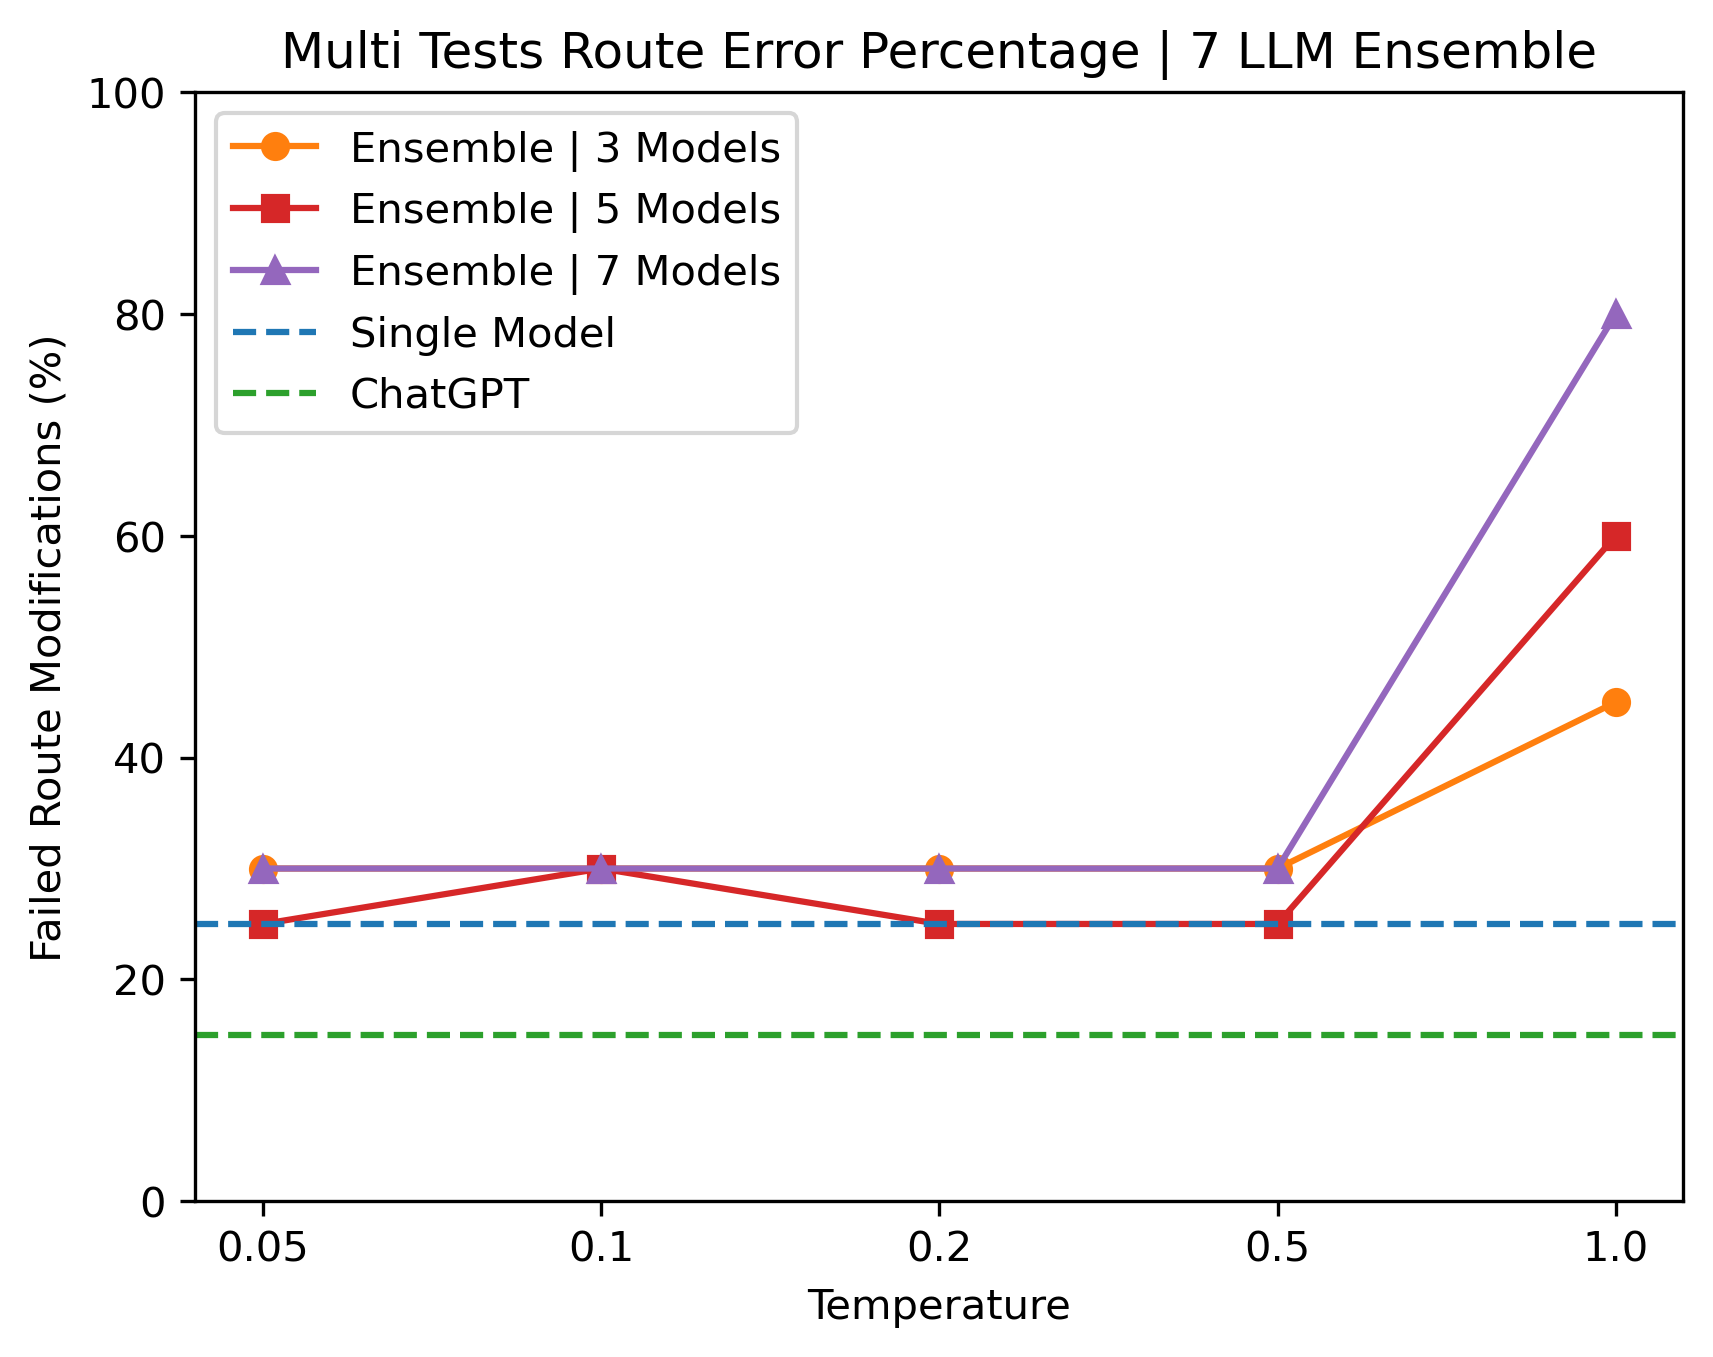
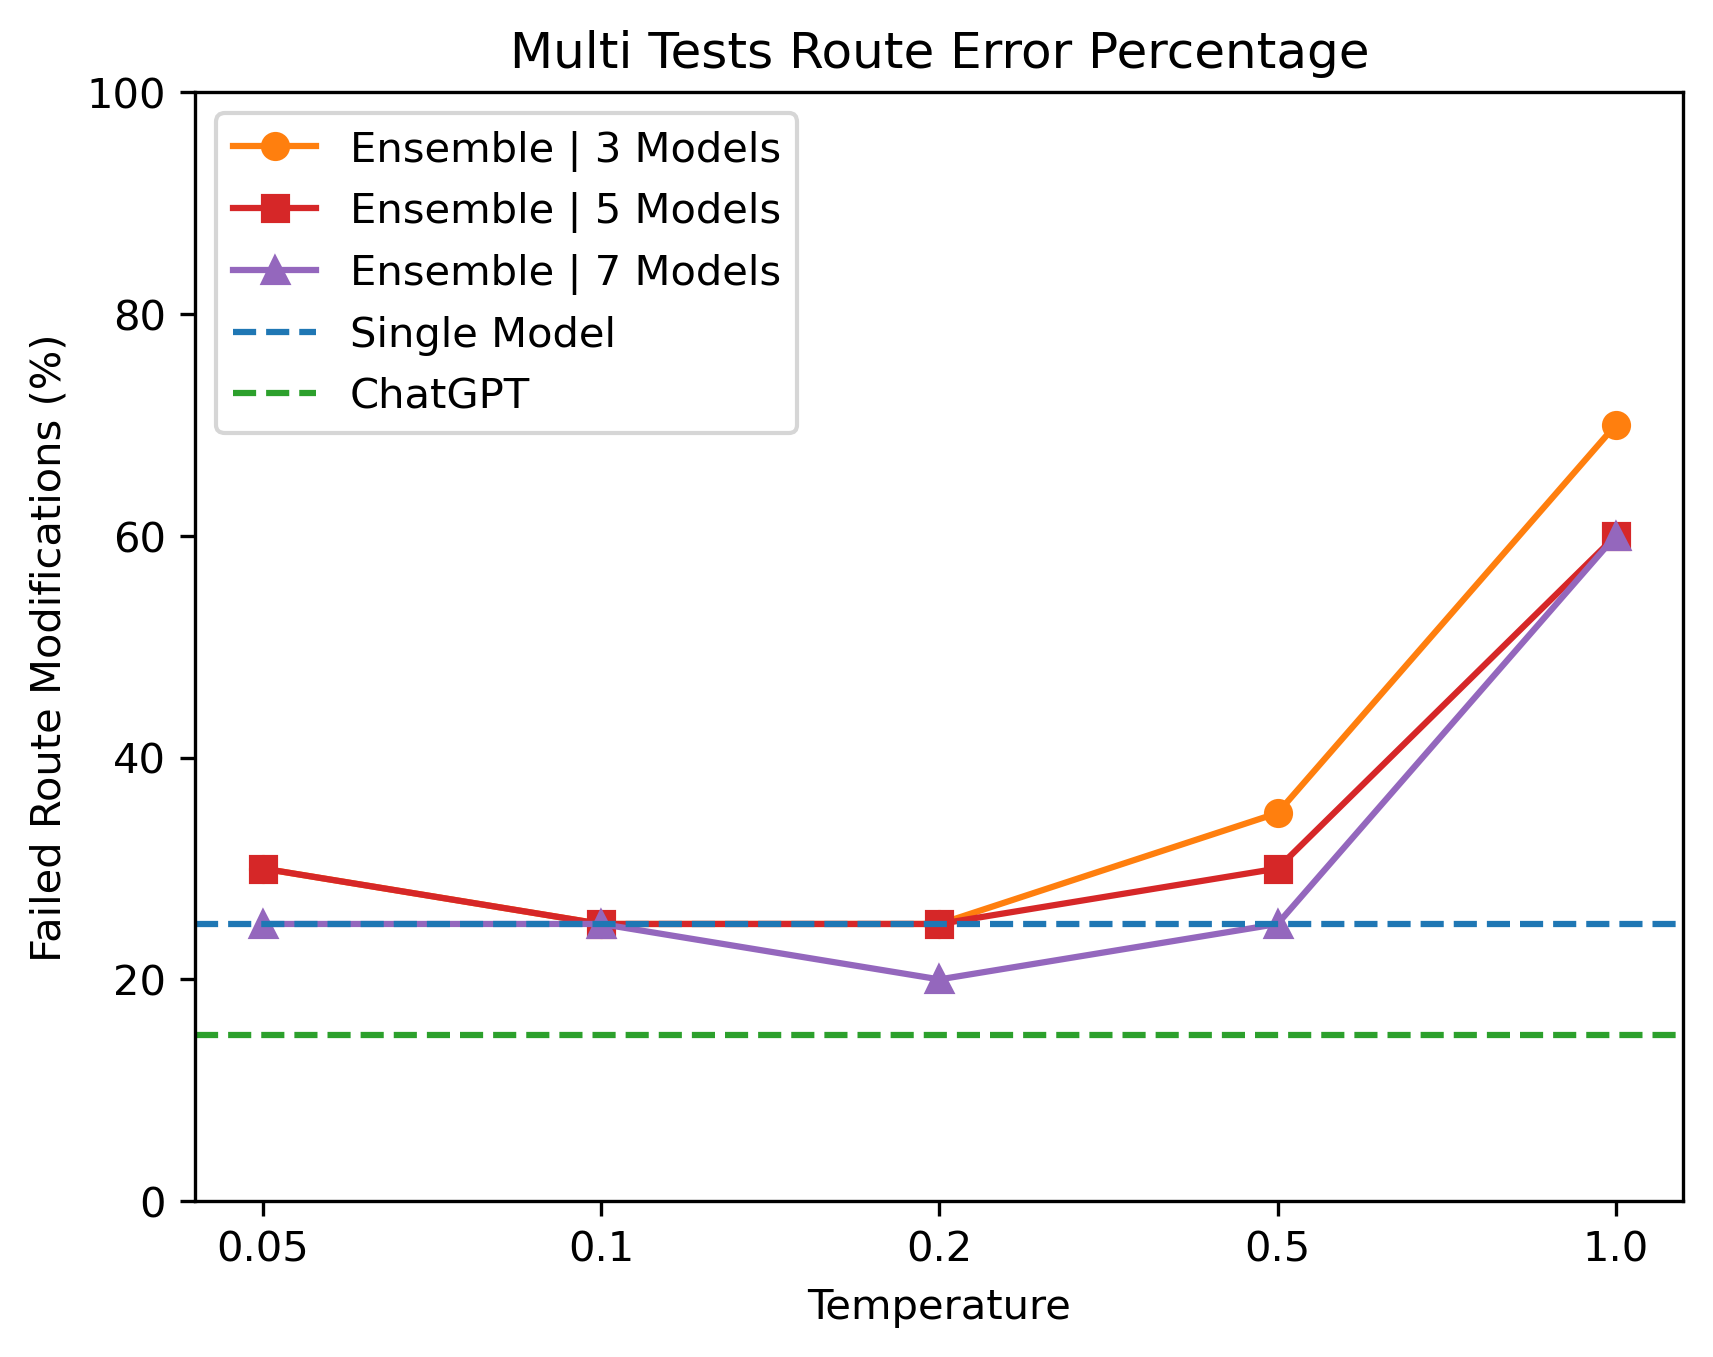
Update evaluation/plotting code

diff --git a/evaluation.py b/evaluation.py
@@ -227,7 +227,7 @@ def evaluate_dataset(dataset_name, llm_num=1, temperature=0.0, top_p=1, open_ai=
                 print("Did not include " + waypoint)
                 route_good = False
 
-        if len(route["properties"]["waypoints"][1:-1]) != len(processed_change_waypoints):
+        if len(route["properties"]["waypoints"][1:-1]) != len(processed_test_waypoints):
             print("Wrong number of waypoints")
             route_good = False
 
@@ -283,8 +283,8 @@ def evaluate_dataset(dataset_name, llm_num=1, temperature=0.0, top_p=1, open_ai=
     }
 
 
-def plot_evaluation():
-    with open("ensemble_eval.json", "r") as file:
+def plot_evaluation(file="ensemble_eval.json"):
+    with open(file, "r") as file:
         eval_dict = json.load(file)
 
     consolidated_dict = {}
@@ -354,12 +354,14 @@ def plot_evaluation():
         if type == "single":
             ax.axhline(y=8.33, xmin=0, xmax=len(temperatures), color="C0", linestyle="--", label="Single Model")
             ax.axhline(y=5, xmin=0, xmax=len(temperatures), color="C2", linestyle="--", label="ChatGPT")
+            ylim = [0, 30]
         else:
             ax.axhline(y=25, xmin=0, xmax=len(temperatures), color="C0", linestyle="--", label="Single Model")
             ax.axhline(y=15, xmin=0, xmax=len(temperatures), color="C2", linestyle="--", label="ChatGPT")
+            ylim = [0, 100]
 
-        ax.set(xlabel="Temperature", ylabel="Failed Route Modifications (%)", title=f"{type.capitalize()} Tests Route Error Percentage | {llm_num} LLM Ensemble",
-            xticks=np.arange(len(temperatures)), xticklabels=temperatures, ylim=[0,100])
+        ax.set(xlabel="Temperature", ylabel="Failed Route Modifications (%)", title=f"{type.capitalize()} Tests Route Error Percentage",
+            xticks=np.arange(len(temperatures)), xticklabels=temperatures, ylim=ylim)
         
         ax.legend()
 
@@ -367,19 +369,132 @@ def plot_evaluation():
 
         plt.show()
 
+def poster_figs():
+    plt.rcParams.update({
+    "text.usetex": True,
+    "font.family": "serif",
+    "font.sans-serif": "Helvetica",
+    })
+
+    SMALL_SIZE = 14
+    MEDIUM_SIZE = 16
+    BIGGER_SIZE = 18
+
+    plt.rc('font', size=SMALL_SIZE)          # controls default text sizes
+    plt.rc('axes', titlesize=SMALL_SIZE)     # fontsize of the axes title
+    plt.rc('axes', labelsize=MEDIUM_SIZE)    # fontsize of the x and y labels
+    plt.rc('xtick', labelsize=SMALL_SIZE)    # fontsize of the tick labels
+    plt.rc('ytick', labelsize=SMALL_SIZE)    # fontsize of the tick labels
+    plt.rc('legend', fontsize=SMALL_SIZE)    # legend fontsize
+    plt.rc('figure', titlesize=BIGGER_SIZE)
+
+    fig, ax = plt.subplots(ncols=3, nrows=2)
+
+    models = ["Llama 2", "Ensemble", "GPT-3.5"]
+    single_correct = [55, 56, 57]
+    multi_correct = [15, 15, 17]
+
+    def autopct_format(values):
+        def my_format(pct):
+            total = sum(values)
+            val = int(round(pct*total/100.0))
+            return '{v:d}'.format(v=val)
+        return my_format
+
+    for idx, type in enumerate(["Single", "Multi"]):
+        for idx2, model in enumerate(models):
+            if type == "Single":
+                ax[idx, idx2].pie([single_correct[idx2], 60 - single_correct[idx2]], 
+                                colors=["C0", "C3"], startangle=90,
+                                autopct=autopct_format([single_correct[idx2], 
+                                                        60 - single_correct[idx2]]),
+                                wedgeprops = {"edgecolor" : "black", 
+                                              'linewidth': 0.5, 
+                                              'antialiased': True,
+                                              'alpha':0.9})
+            else:
+                ax[idx, idx2].pie([multi_correct[idx2],
+                                   20 - multi_correct[idx2]], 
+                                   colors=["C0", "C3"], startangle=90, 
+                                   autopct=autopct_format([multi_correct[idx2], 
+                                                           20 - multi_correct[idx2]]),
+                                   wedgeprops = {"edgecolor" : "black", 
+                                                'linewidth': 0.5, 
+                                                'antialiased': True,
+                                                'alpha':0.9})
+            ax[idx, idx2].axis('equal')
+        
+    fig.axes[0].set_ylabel(f"Single Tests")
+    fig.axes[3].set_ylabel(f"Multi Tests")
+    fig.axes[3].set_xlabel(models[0])
+    fig.axes[4].set_xlabel(models[1])
+    fig.axes[5].set_xlabel(models[2])
+    fig.suptitle("Route Modification Correctness", fontsize=20)
+
+    fig.savefig(f"project/images/route_correctness.png", bbox_inches='tight', dpi=300)
+
+    plt.show()
+
+    fig, ax = plt.subplots(ncols=1, nrows=2)
+
+    single_correct = [57, 51, 58]
+    single_include = [0, 6, 0]
+    single_extra = [1, 1, 0]
+    single_miss = [3, 3, 2]
+
+    multi_correct = [55, 50, 58]
+    multi_include = [0, 5, 0]
+    multi_miss = [4, 5, 2]
+
+    for idx, type in enumerate(["Single", "Multi"]):
+        if type == "Single":
+            ax[idx].bar(np.arange(len(models))-0.15, [single_correct[idx2] for idx2 in range(len(models))], width=0.1, color="C0", alpha=0.9)
+            for i in range(len(models)):
+                ax[idx].text(i-0.15, single_correct[i] + 1, single_correct[i], ha = 'center')
+            ax[idx].bar(np.arange(len(models))-0.05, [single_include[idx2] for idx2 in range(len(models))], width=0.1, color="gold", alpha=0.9)
+            for i in range(len(models)):
+                ax[idx].text(i-0.05, single_include[i] + 1, single_include[i], ha = 'center')
+            ax[idx].bar(np.arange(len(models))+0.05, [single_extra[idx2] for idx2 in range(len(models))], width=0.1, color="C1", alpha=0.9)
+            for i in range(len(models)):
+                ax[idx].text(i+0.05, single_extra[i] + 1, single_extra[i], ha = 'center')
+            ax[idx].bar(np.arange(len(models))+0.15, [single_miss[idx2] for idx2 in range(len(models))], width=0.1, color="C3", alpha=0.9)
+            for i in range(len(models)):
+                ax[idx].text(i+0.15, single_miss[i] + 1, single_miss[i], ha = 'center')
+        else:
+            ax[idx].bar(np.arange(len(models))-0.1, [multi_correct[idx2] for idx2 in range(len(models))], width=0.1, color="C0", alpha=0.9)
+            for i in range(len(models)):
+                ax[idx].text(i-0.1, multi_correct[i] + 1, multi_correct[i], ha = 'center')
+            ax[idx].bar(np.arange(len(models))-0, [multi_include[idx2] for idx2 in range(len(models))], width=0.1, color="gold", alpha=0.9)
+            for i in range(len(models)):
+                ax[idx].text(i-0.0, multi_include[i] + 1, multi_include[i], ha = 'center')
+            ax[idx].bar(np.arange(len(models))+0.1, [multi_miss[idx2] for idx2 in range(len(models))], width=0.1, color="C3", alpha=0.9)
+            for i in range(len(models)):
+                ax[idx].text(i+0.1, multi_miss[i] + 1, multi_miss[i], ha = 'center')
+
+    ax[0].set(ylabel="Single Tests", xticks=np.arange(len(models)), xticklabels=models,
+              ylim=[0, 65])
+    ax[1].set(ylabel="Multi Tests", xticks=np.arange(len(models)),
+                xticklabels=models, ylim=[0, 65])
+    
+    fig.suptitle("Model Output Evaluation", fontsize=20)
+
+    fig.savefig(f"project/images/model_output_eval.png", bbox_inches='tight', dpi=300)
+
+    plt.show()
+
 
 
 if __name__ == "__main__":
     # evaluate_dataset("simple", open_ai=False, llm_num=1, temperature=0.0, top_p=1)
-    # plot_evaluation()
-    overall_dict = {}
-    for llm_num in [3, 5, 7]:
-        for temperature in [0.05, 0.1, 0.2, 0.5, 1.0]:
-            results_dict = evaluate_dataset("simple", open_ai=False, llm_num=llm_num, temperature=temperature, top_p=1)
-            overall_dict[f"{llm_num}_{temperature}"] = results_dict
-    print(overall_dict)
+    poster_figs()
+    # overall_dict = {}
+    # for llm_num in [3, 5, 7]:
+    #     for temperature in [0.05, 0.1, 0.2, 0.5, 1.0]:
+    #         results_dict = evaluate_dataset("simple", open_ai=False, llm_num=llm_num, temperature=temperature, top_p=1)
+    #         overall_dict[f"{llm_num}_{temperature}"] = results_dict
+    # print(overall_dict)
 
-    with open("ensemble_eval_2.json", "w") as outfile: 
-        json.dump(overall_dict, outfile)
+    # with open("ensemble_eval_2.json", "w") as outfile: 
+    #     json.dump(overall_dict, outfile)
 
 
